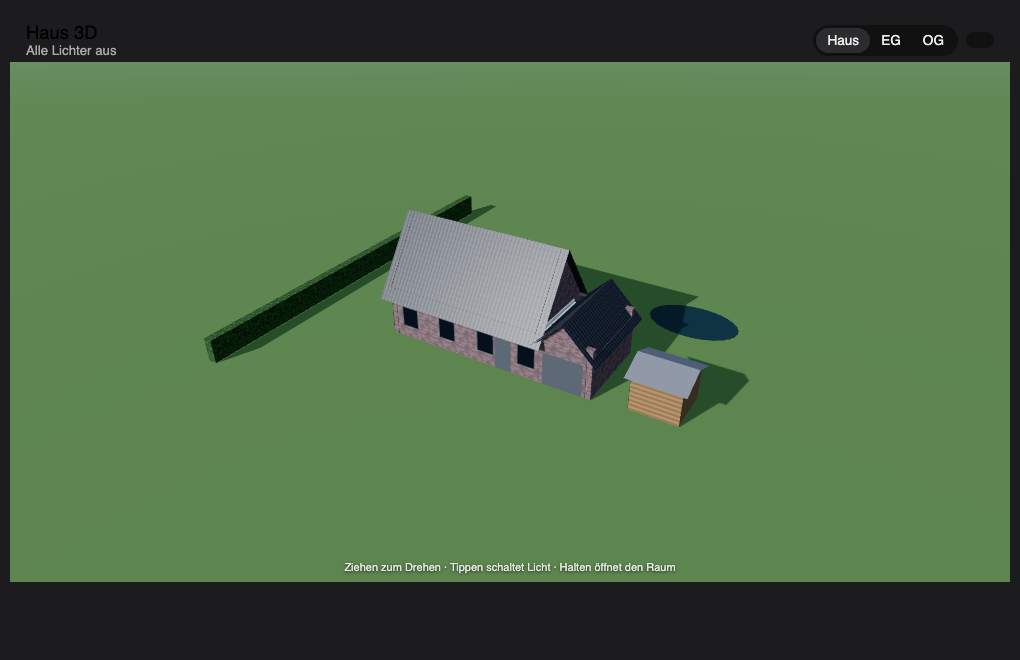
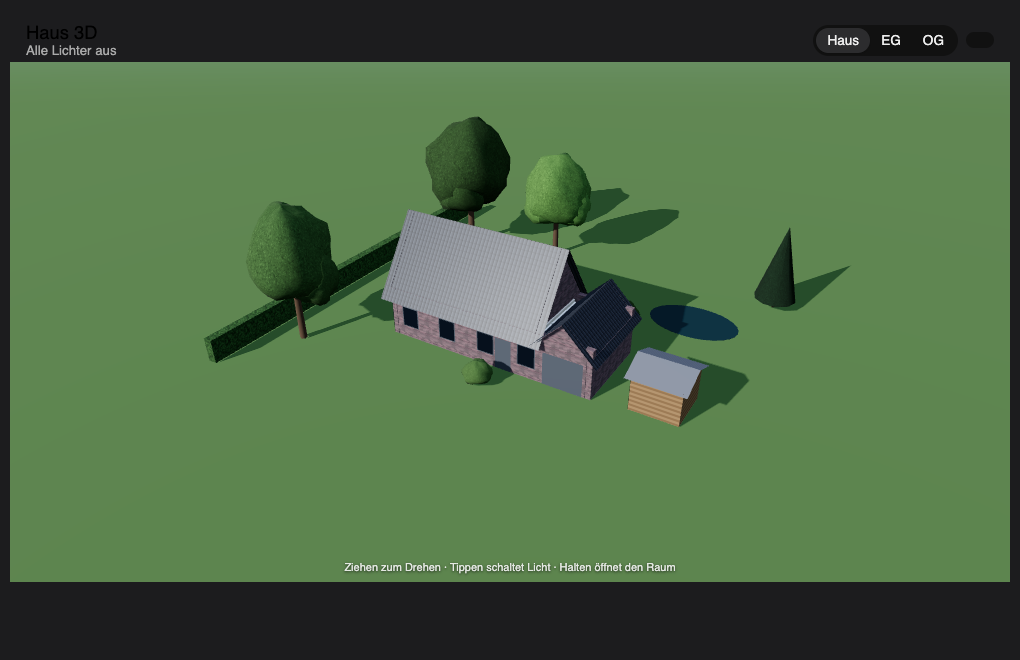
1.1.0: trees and shrubs, moonlight, soft photo edge
- house.plants: instanced trees, conifers and shrubs with per-plant colour
- tools/plants_from_ortho.py finds plants on an aerial photo
- moonlight and brighter night sky keep the house readable after dark
- aerial photo fades into the lawn; shadows cover the whole garden

diff --git a/dist/house-3d-card.js b/dist/house-3d-card.js
@@ -5,7 +5,7 @@
  * The house geometry lives in the card config, never in this file.
  * SPDX-License-Identifier: MIT
  */
-const VERSION = "1.0.0";
+const VERSION = "1.1.0";
 const THREE_URL = new URL("./three.module.min.js", import.meta.url).href;
 const WARM = [255, 183, 92];
 
@@ -591,7 +591,41 @@ const PAINT = {
       g.fillRect(Math.random() * s, Math.random() * s, 3 + Math.random() * 5, 3 + Math.random() * 5);
     }
   },
+  // light grey leaves; each plant tints it with its own colour
+  foliage: (g, s) => {
+    g.fillStyle = "#b8b8b8"; g.fillRect(0, 0, s, s);
+    for (let i = 0; i < 2600; i++) {
+      g.fillStyle = ["#f0f0f0", "#a0a0a0", "#dadada", "#848484", "#c8c8c8"][i % 5];
+      g.beginPath();
+      g.ellipse(Math.random() * s, Math.random() * s, 1.5 + Math.random() * 2.5, 1 + Math.random() * 1.5, Math.random() * 3, 0, 7);
+      g.fill();
+    }
+  },
 };
+
+// small deterministic random generator, so plants look the same on every load
+function seeded(a) {
+  return () => {
+    a = (a + 0x6d2b79f5) | 0;
+    let t = Math.imul(a ^ (a >>> 15), 1 | a);
+    t = (t + Math.imul(t ^ (t >>> 7), 61 | t)) ^ t;
+    return ((t ^ (t >>> 14)) >>> 0) / 4294967296;
+  };
+}
+
+// lumpy unit sphere for tree crowns and shrubs
+function crownGeometry(T) {
+  const g = new T.SphereGeometry(1, 16, 11), pos = g.attributes.position;
+  for (let i = 0; i < pos.count; i++) {
+    const x = pos.getX(i), y = pos.getY(i), z = pos.getZ(i);
+    const n = Math.sin(3.1 * x + 1.7) * Math.sin(2.7 * y + 0.4) * Math.sin(3.3 * z + 2.1)
+      + 0.5 * Math.sin(7.3 * x + 0.3) * Math.sin(6.1 * z + 1.2) * Math.sin(5.7 * y + 2.5);
+    const f = 1 + 0.2 * n;
+    pos.setXYZ(i, x * f, (y < -0.2 ? y * 0.8 : y) * f, z * f);
+  }
+  g.computeVertexNormals();
+  return g;
+}
 
 // planar UVs in metres, chosen per face from its normal
 function worldUV(geo) {
@@ -792,7 +826,7 @@ class HouseReal extends HouseBase {
     this._mat = mat;
 
     // ground: optional orthophoto quad over a large lawn plane
-    const lawn = new T.Mesh(new T.PlaneGeometry(400, 400), new T.MeshStandardMaterial({ color: 0x55703f, roughness: 1 }));
+    const lawn = new T.Mesh(new T.PlaneGeometry(400, 400), new T.MeshStandardMaterial({ color: house.ortho ? 0x6b7a4c : 0x55703f, roughness: 1 }));
     lawn.rotation.x = -Math.PI / 2;
     lawn.position.set(this._center[0], -0.03, this._center[2]);
     lawn.receiveShadow = true;
@@ -804,15 +838,26 @@ class HouseReal extends HouseBase {
       og.setAttribute("uv", new T.Float32BufferAttribute([0, 0, 1, 0, 1, 1, 0, 1], 2));
       og.setIndex([0, 1, 2, 0, 2, 3]);
       og.computeVertexNormals();
-      const ortho = new T.MeshStandardMaterial({ color: 0xffffff, roughness: 1 });
+      // the photo fades out at its edges instead of ending in a hard border
+      const fade = document.createElement("canvas");
+      fade.width = fade.height = 64;
+      const fg = fade.getContext("2d");
+      fg.fillStyle = "#000"; fg.fillRect(0, 0, 64, 64);
+      for (let i = 0; i < 8; i++) {
+        fg.fillStyle = `rgb(${(i + 1) * 32 - 1},${(i + 1) * 32 - 1},${(i + 1) * 32 - 1})`;
+        fg.fillRect(i, i, 64 - 2 * i, 64 - 2 * i);
+      }
+      const alpha = new T.CanvasTexture(fade);
+      const ortho = new T.MeshStandardMaterial({ color: 0xe2e2e2, roughness: 1, transparent: true, alphaMap: alpha, depthWrite: false });
       new T.TextureLoader().load(new URL(house.ortho.url, location.origin).href, (t) => {
         t.colorSpace = T.SRGBColorSpace;
-        t.anisotropy = 8;
+        t.anisotropy = this._renderer.capabilities.getMaxAnisotropy();
         ortho.map = t;
         ortho.needsUpdate = true;
         this._dirty();
       });
       const m = new T.Mesh(og, ortho);
+      m.renderOrder = -1;
       m.receiveShadow = true;
       scene.add(m);
     }
@@ -822,18 +867,26 @@ class HouseReal extends HouseBase {
     this._buildRooms();
     if (house.shell) this._buildWindows();
     this._buildOutdoor();
+    this._buildPlants();
 
     this._hemi = new T.HemisphereLight(0xbfd8ff, 0x4a5a3a, 1);
     scene.add(this._hemi);
     const sun = new T.DirectionalLight(0xffffff, 3);
     sun.castShadow = true;
     sun.shadow.mapSize.set(2048, 2048);
-    Object.assign(sun.shadow.camera, { left: -32, right: 32, top: 32, bottom: -32, near: 1, far: 160 });
+    const ext = this._extent();
+    Object.assign(sun.shadow.camera, { left: -ext, right: ext, top: ext, bottom: -ext, near: 1, far: 300 });
     sun.shadow.bias = -0.0004;
     sun.shadow.normalBias = 0.02;
     sun.target.position.set(...this._center);
     scene.add(sun, sun.target);
     this._sun = sun;
+    // cool moonlight, so the house stays readable at night
+    const moon = new T.DirectionalLight(0x9db4ff, 0);
+    moon.position.set(this._center[0] - 40, 70, this._center[2] + 30);
+    moon.target.position.set(...this._center);
+    scene.add(moon, moon.target);
+    this._moon = moon;
     this._resize();
     this._applyMode();
   }
@@ -1032,6 +1085,70 @@ class HouseReal extends HouseBase {
     });
   }
 
+  // half size of the area that receives sun shadows: house, zones and plants
+  _extent() {
+    const [cx, , cz] = this._center;
+    const pts = [...(this._house.shell || []), ...this._zones().flatMap((z) => outline(z)),
+      ...(this._house.plants || []).map((p) => p.at)];
+    const d = Math.max(0, ...pts.map(([x, y]) => Math.max(Math.abs(x - cx), Math.abs(y - cz))));
+    return Math.max(32, Math.min(70, d + 4));
+  }
+
+  // trees, conifers and shrubs as instanced meshes
+  _buildPlants() {
+    const T = this._T, plants = this._house.plants || [];
+    if (!plants.length) return;
+    const rnd = seeded(7);
+    const foliage = canvasTex(T, 256, PAINT.foliage, 1);
+    foliage.repeat.set(6, 3);
+    const leaves = new T.MeshStandardMaterial({ map: foliage, roughness: 0.95 });
+    const bark = new T.MeshStandardMaterial({ color: 0x5a4636, roughness: 1 });
+    const tint = { tree: "#4f6e3b", conifer: "#2e4a31", shrub: "#58763f" };
+    const count = (k) => plants.filter((p) => (p.kind || "tree") === k).length;
+    // big trees get two side lobes, so crowns are not plain balls
+    const crowns = new T.InstancedMesh(crownGeometry(T), leaves, count("tree") * 3 + count("shrub"));
+    const cones = new T.InstancedMesh(new T.ConeGeometry(1, 1, 10), leaves, Math.max(1, count("conifer")));
+    const trunks = new T.InstancedMesh(new T.CylinderGeometry(0.7, 1, 1, 6), bark, Math.max(1, count("tree") + count("conifer")));
+    const m = new T.Matrix4(), q = new T.Quaternion(), up = new T.Vector3(0, 1, 0), col = new T.Color();
+    const n = { crown: 0, cone: 0, trunk: 0 };
+    const put = (mesh, key, x, y, z, sx, sy, sz, c) => {
+      q.setFromAxisAngle(up, rnd() * 6.283);
+      m.compose(new T.Vector3(x, y, z), q, new T.Vector3(sx, sy, sz));
+      mesh.setMatrixAt(n[key], m);
+      if (c) mesh.setColorAt(n[key], c);
+      n[key]++;
+    };
+    plants.forEach((p) => {
+      const kind = p.kind || "tree", [x, z] = p.at, r = p.r || 1.5;
+      const j = 0.9 + 0.2 * rnd();
+      col.set(p.color || tint[kind] || tint.tree).offsetHSL(0, 0, (rnd() - 0.5) * 0.06);
+      if (kind === "shrub") {
+        const h = p.h || r * 1.4;
+        put(crowns, "crown", x, h / 2 - 0.05, z, r * j, h / 2, r * j, col);
+      } else if (kind === "conifer") {
+        const h = p.h || r * 4;
+        put(cones, "cone", x, h * 0.12 + h * 0.44, z, r, h * 0.88, r, col);
+        put(trunks, "trunk", x, h * 0.075, z, 0.12, h * 0.15, 0.12);
+      } else {
+        const h = p.h || r * 2.4 + 2.5, cy = Math.max(Math.min(r * 1.1, h * 0.45), h * 0.36), stem = h - cy;
+        put(crowns, "crown", x, h - cy, z, r * j, cy, r * (2 - j), col);
+        if (r > 2.2) for (let k = 0; k < 2; k++) {
+          const a = rnd() * 6.283, d = r * 0.45;
+          put(crowns, "crown", x + Math.cos(a) * d, h - cy * (1.25 + 0.2 * rnd()), z + Math.sin(a) * d,
+            r * 0.62, cy * 0.62, r * 0.62, col.clone().offsetHSL(0, 0, (rnd() - 0.5) * 0.05));
+        }
+        put(trunks, "trunk", x, stem / 2, z, 0.06 * r + 0.08, stem, 0.06 * r + 0.08);
+      }
+    });
+    [crowns, cones, trunks].forEach((mesh, i) => {
+      mesh.count = [n.crown, n.cone, n.trunk][i];
+      mesh.castShadow = mesh.receiveShadow = true;
+      mesh.instanceMatrix.needsUpdate = true;
+      if (mesh.instanceColor) mesh.instanceColor.needsUpdate = true;
+      this._scene.add(mesh);
+    });
+  }
+
   _buildOutdoor() {
     const T = this._T, mat = this._mat;
     this._zoneLights = [];
@@ -1113,11 +1230,13 @@ class HouseReal extends HouseBase {
     const right = E * Math.cos(b) - N * Math.sin(b), up = E * Math.sin(b) + N * Math.cos(b);
     const v = new T.Vector3(right, Math.max(0.08, Math.sin(el)), -up);
     const day = Math.max(0, Math.min(1, elev / 12 + 0.3)), night = 1 - day;
-    this._sun.position.copy(v.normalize().multiplyScalar(80)).add(new T.Vector3(...this._center));
+    this._sun.position.copy(v.normalize().multiplyScalar(140)).add(new T.Vector3(...this._center));
     this._sun.intensity = 3.2 * day;
     this._sun.color.setHSL(0.09, 0.5 * night + 0.1, 0.9);
-    this._hemi.intensity = 0.45 + 1.35 * day;
-    const sky = new T.Color().lerpColors(new T.Color(0x0b1226), new T.Color(0xa9cbea), day);
+    this._moon.intensity = 1.1 * night;
+    this._hemi.intensity = 0.8 + 1.0 * day;
+    this._hemi.color.lerpColors(new T.Color(0x8ea8dc), new T.Color(0xbfd8ff), day);
+    const sky = new T.Color().lerpColors(new T.Color(0x1a2644), new T.Color(0xa9cbea), day);
     this._scene.background = sky;
     this._scene.fog = new T.Fog(sky, 90, 260);
     let lit = 0;

diff --git a/tools/plants_from_ortho.py b/tools/plants_from_ortho.py
@@ -1,0 +1,112 @@
+#!/usr/bin/env python3
+"""Detect trees and shrubs on an aerial photo and print them as `house.plants`.
+
+Usage:
+  python3 plants_from_ortho.py ortho.jpg --corners "TL_x,TL_y TR_x,TR_y BR_x,BR_y BL_x,BL_y" \
+      [--exclude "x,y x,y x,y ..."]... [--preview preview.png] > plants.json
+
+The corners are the same as `house.ortho.corners` (floor plan metres).
+Pass the house outline and modelled objects (garden house, pond, ...) with
+--exclude, so no plants grow on them. Needs Pillow, NumPy and SciPy.
+"""
+import argparse, colorsys, json, math, sys
+
+import numpy as np
+from PIL import Image, ImageDraw
+from scipy import ndimage as ndi
+
+
+def pairs(text):
+    return [tuple(map(float, p.split(","))) for p in text.split()]
+
+
+def tone(col):
+    # the photo average includes shade: lift it to a sunlit foliage tone
+    h, s, v = colorsys.rgb_to_hsv(*col)
+    if not 0.15 < h < 0.45:
+        h = 0.25
+    rgb = colorsys.hsv_to_rgb(h, min(0.75, s * 1.5 + 0.1), min(0.62, max(0.4, v * 1.35)))
+    return "#%02x%02x%02x" % tuple(int(x * 255) for x in rgb)
+
+
+def main():
+    ap = argparse.ArgumentParser(description=__doc__, formatter_class=argparse.RawDescriptionHelpFormatter)
+    ap.add_argument("image")
+    ap.add_argument("--corners", required=True)
+    ap.add_argument("--exclude", action="append", default=[])
+    ap.add_argument("--max", type=int, default=400, help="maximum number of plants")
+    ap.add_argument("--preview")
+    a = ap.parse_args()
+
+    im = np.asarray(Image.open(a.image).convert("RGB")).astype(float) / 255
+    hgt, wid = im.shape[:2]
+    tl, tr, br, bl = [np.array(p) for p in pairs(a.corners)]
+    ux, vy = (tr - tl) / wid, (bl - tl) / hgt          # plan metres per pixel step
+    px_m = (np.linalg.norm(ux) + np.linalg.norm(vy)) / 2
+    inv = np.linalg.inv(np.column_stack([ux, vy]))
+    to_plan = lambda px, py: tl + ux * px + vy * py
+    to_px = lambda p: inv @ (np.array(p) - tl)
+
+    # foliage: green and textured, or dark dense green; lawn is smooth, roofs are grey
+    r, g, b = im[..., 0], im[..., 1], im[..., 2]
+    gray, val = im.mean(-1), im.max(-1)
+    exg = (2 * g - r - b) / (r + g + b + 1e-6)
+    k = max(3, round(1.0 / px_m))                    # about one metre
+    loc = np.sqrt(np.maximum(ndi.uniform_filter(gray ** 2, k) - ndi.uniform_filter(gray, k) ** 2, 0))
+    L, X = ndi.uniform_filter(loc, k), ndi.uniform_filter(exg, k)
+    m = (L > 0.034) & (X > 0.02) & (g >= r - 0.01)
+    m |= (X > 0.10) & (val < 0.30)
+    m |= (L > 0.03) & (val < 0.26) & (b < g + 0.03)
+    m = ndi.binary_opening(m, iterations=2)
+    m = ndi.binary_fill_holes(ndi.binary_closing(m))
+    m &= ~ndi.binary_dilation(ndi.uniform_filter(val, 3) > 0.62, iterations=2)
+    keep = Image.new("L", (wid, hgt), 0)
+    d = ImageDraw.Draw(keep)
+    for poly in a.exclude:
+        d.polygon([tuple(to_px(p)) for p in pairs(poly)], fill=1)
+    m &= ~np.asarray(keep, bool)
+    lab, n = ndi.label(m)
+    sizes = ndi.sum(m, lab, range(1, n + 1))
+    m = np.isin(lab, 1 + np.nonzero(sizes >= 8)[0])
+
+    # greedy crowns: the widest free spot first, then cut it out
+    dist = ndi.distance_transform_edt(m)
+    free = m.copy()
+    yy, xx = np.mgrid[0:hgt, 0:wid]
+    plants = []
+    for _ in range(a.max):
+        dd = np.where(free, dist, 0)
+        py, px = divmod(int(dd.argmax()), wid)
+        R = min(dd[py, px], 4.8 / px_m)
+        if R * px_m < 0.7:
+            break
+        disk = (xx - px) ** 2 + (yy - py) ** 2 <= R * R
+        free &= ~((xx - px) ** 2 + (yy - py) ** 2 <= (0.9 * R) ** 2)
+        rm = R * px_m
+        dark = im[disk].max(-1).mean() < 0.3
+        if rm < 1.6:
+            kind, h = "shrub", min(3.0, 0.6 + 1.6 * rm)
+        elif dark and rm < 3:
+            kind, h = "conifer", rm * 4.5
+        else:
+            kind, h = "tree", min(17, 2.4 * rm + 2.5)
+        x, y = to_plan(px + 0.5, py + 0.5)
+        plants.append({"at": [round(float(x), 2), round(float(y), 2)], "r": round(rm, 2), "h": round(h, 1),
+                       "kind": kind, "color": tone(im[disk & m].mean(0))})
+
+    json.dump(plants, sys.stdout, indent=None)
+    print()
+    print(f"{len(plants)} plants", file=sys.stderr)
+    if a.preview:
+        out = Image.fromarray((im * 255).astype(np.uint8))
+        d = ImageDraw.Draw(out)
+        for p in plants:
+            cx, cy = to_px(p["at"])
+            R = p["r"] / px_m
+            d.ellipse([cx - R, cy - R, cx + R, cy + R],
+                      outline={"tree": (255, 0, 255), "conifer": (0, 255, 255), "shrub": (255, 255, 0)}[p["kind"]])
+        out.save(a.preview)
+
+
+if __name__ == "__main__":
+    main()

diff --git a/README.md b/README.md
@@ -7,7 +7,7 @@ Interaktives 3D-Modell deines Hauses als Home-Assistant-Dashboard-Karte, in zwei
 | ![Schematisch](docs/schematic.png) | ![Realistisch](docs/realistic.png) |
 
 - **Schematisch:** schnelles CSS-3D-Modell ohne Abhängigkeiten. Räume leuchten in der Farbe ihrer Lampen, es gibt eine Temperatur-Ansicht, Geschosse lassen sich einzeln oder gestapelt zeigen.
-- **Realistisch:** three.js-Modell mit Wänden, Satteldächern und Zeltdächern. Die Schatten folgen dem echten Sonnenstand aus `sun.sun`, abends leuchten die Fenster in der Farbe der Lampen dahinter. EG und OG lassen sich aufschneiden, ein Luftbild kann als Boden dienen.
+- **Realistisch:** three.js-Modell mit Wänden, Satteldächern, Zeltdächern, Bäumen und Büschen. Die Schatten folgen dem echten Sonnenstand aus `sun.sun`, nachts hellt Mondlicht das Haus auf und die Fenster leuchten in der Farbe der Lampen dahinter. EG und OG lassen sich aufschneiden, ein Luftbild kann als Boden dienen.
 - **Bedienung:** Ziehen dreht, Mausrad oder zwei Finger zoomen. Tippen schaltet das Licht im Raum, Halten öffnet die Raumseite, eine Kamera oder die Details.
 
 Über den Knopf rechts oben wechselst du zwischen den Darstellungen. Die Wahl merkt sich der Browser.
@@ -48,7 +48,8 @@ Alle Maße sind Meter auf dem Grundriss: `x` nach rechts, `y` nach unten (im rea
 | `wall_zones` | Abweichende Wandhöhen: `{ rect: [x0, y0, x1, y1], height }` oder `{ circle: [x, y, r], height }`. |
 | `roofs` | `{ type: gable, rect, axis: x\|z, eave, ridge, overhang, windows }` für Satteldächer (`rect` = Wandrechteck, `axis` = Firstrichtung, `windows: true` setzt Fenster in die Giebel), `{ type: tent, center, ring, base, apex, overhang }` für Zeltdächer. |
 | `doors` | `{ at: [x, y], width, height }`, Türen auf der Außenwand. |
-| `ortho` | Luftbild als Boden: `{ url, corners: [TL, TR, BR, BL] }` in Grundriss-Metern. |
+| `ortho` | Luftbild als Boden: `{ url, corners: [TL, TR, BR, BL] }` in Grundriss-Metern. Der Rand blendet weich in den Rasen über. |
+| `plants` | Bäume und Büsche: `{ at: [x, y], r, h, kind: tree \| conifer \| shrub, color }`. `r` ist der Kronenradius, `h` die Höhe in Metern, `color` optional. |
 | `materials` | Optional: `brick` (Liste von Klinkerfarben), `mortar`, `roof` (drei Farbtöne hell → dunkel). |
 
 **Tipp:** Exakte Raumumrisse bekommst du aus einem PDF-Grundriss (`pdftocairo -svg plan.pdf plan.svg`), indem du die Pfade der Raumflächen ausliest und mit dem Planmaßstab in Meter umrechnest. Luftbilder gibt es in vielen Bundesländern kostenlos als Open Data (DOP-Orthofotos der Landesvermessungsämter).
@@ -79,6 +80,21 @@ Flächen und Objekte rund ums Haus. Jede Zone hat `id`, optional `name`, eine Fo
 | `hedge` | Hecke, `height` |
 
 Dazu `roof: <Höhe>` für überdachte Flächen und `label: [x, y]` oder `label: false`. Zonen können dieselben Entitäten haben wie Räume (`lights`, `motion`, `more_info`, …).
+
+### Bäume und Büsche aus dem Luftbild
+
+`tools/plants_from_ortho.py` sucht Gehölze auf dem Luftbild und gibt sie als `plants`-Liste aus. Dafür braucht das Skript Pillow, NumPy und SciPy.
+
+```sh
+python3 tools/plants_from_ortho.py ortho.jpg \
+  --corners "-20,-20 35,-20 35,30 -20,30" \
+  --exclude "0,0 14,0 14,6 0,6" \
+  --preview vorschau.png > plants.json
+```
+
+`--corners` sind dieselben Ecken wie bei `house.ortho`. Mit `--exclude` (mehrfach möglich) nimmst du Haus, Gartenhaus oder Teich aus, damit dort nichts wächst. In `vorschau.png` siehst du, was erkannt wurde: Bäume magenta, Nadelbäume türkis, Büsche gelb. Hecken werden zu Reihen aus Büschen.
+
+**Passt das Luftbild nicht genau?** Normale Orthofotos zeigen hohe Dächer leicht schräg versetzt. Richte das Bild deshalb an Bodenmerkmalen wie Wegen, Zäunen oder Beeten aus, nicht am Dachfirst, und verschiebe dafür alle vier Ecken um denselben Betrag.
 
 ## Datenschutz
 
